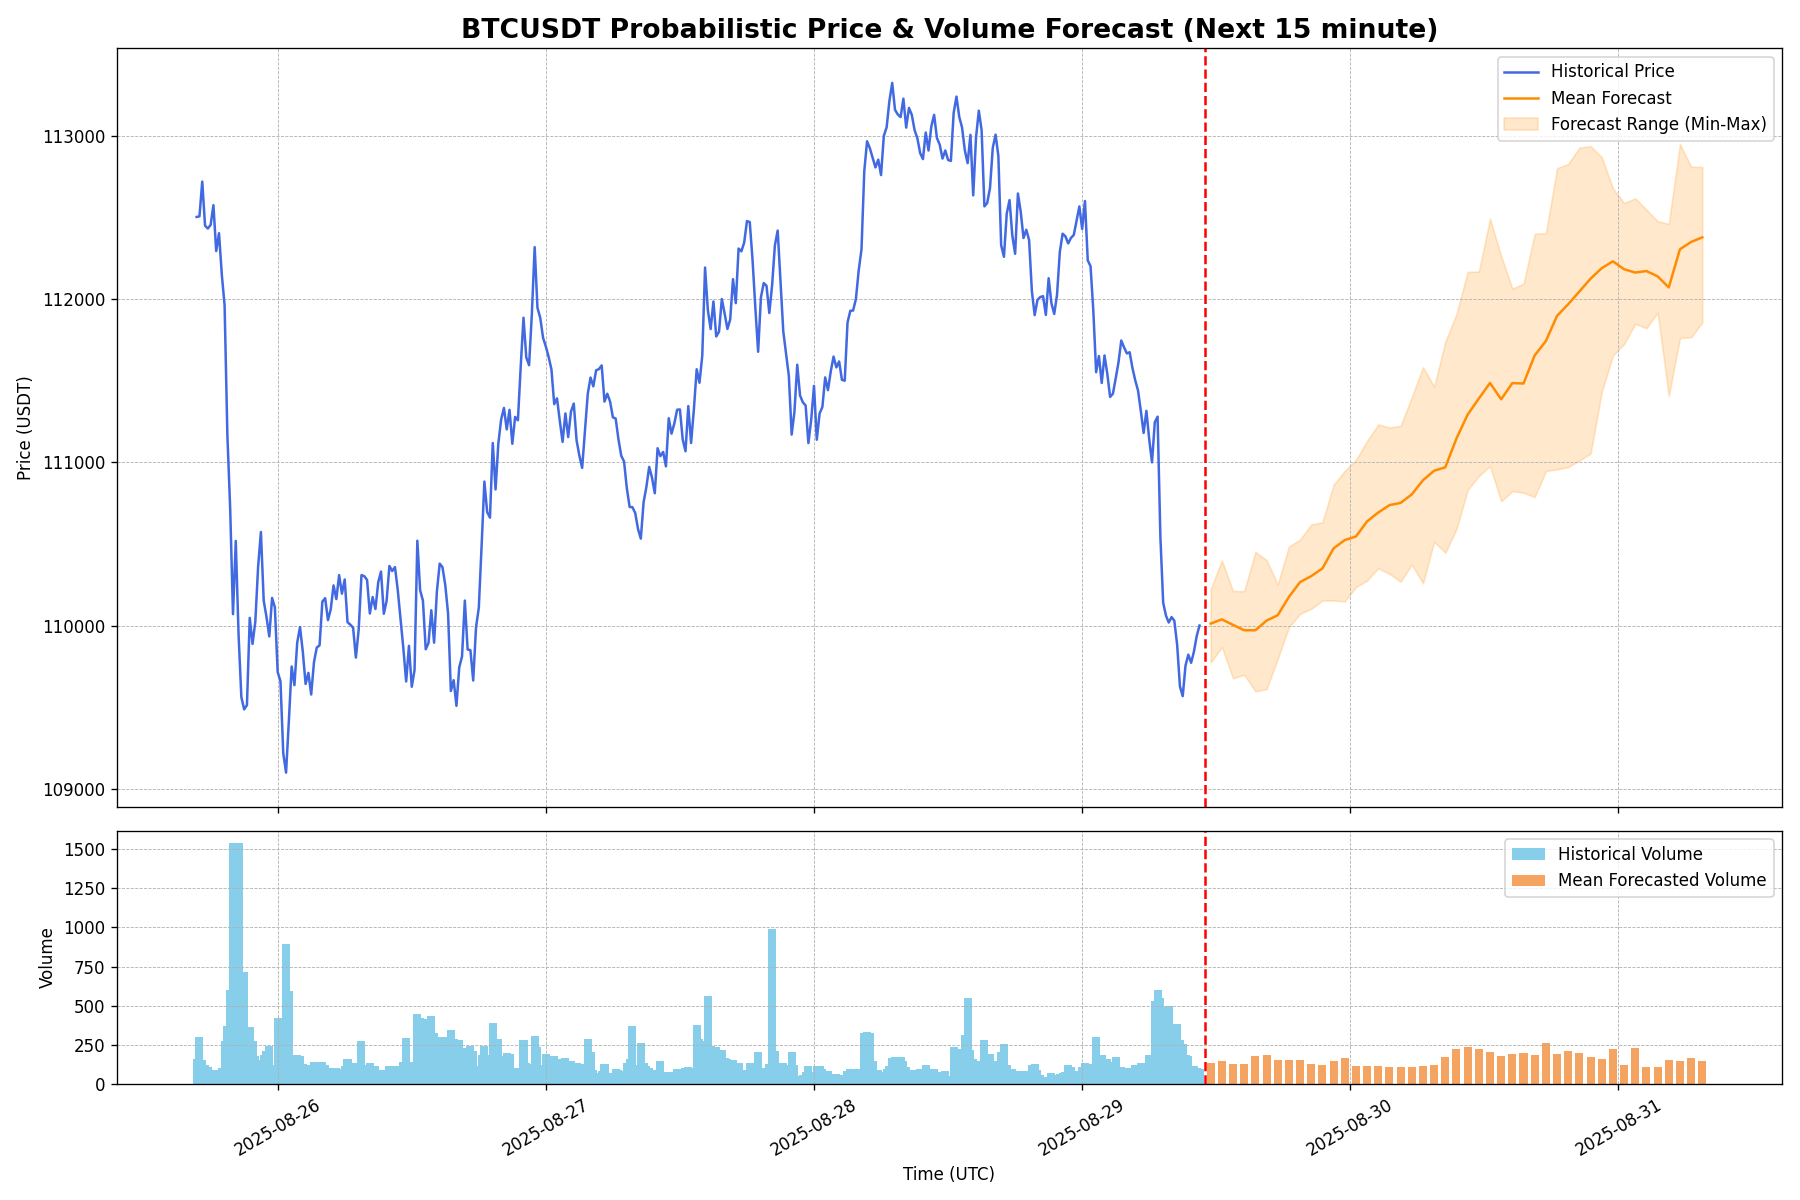
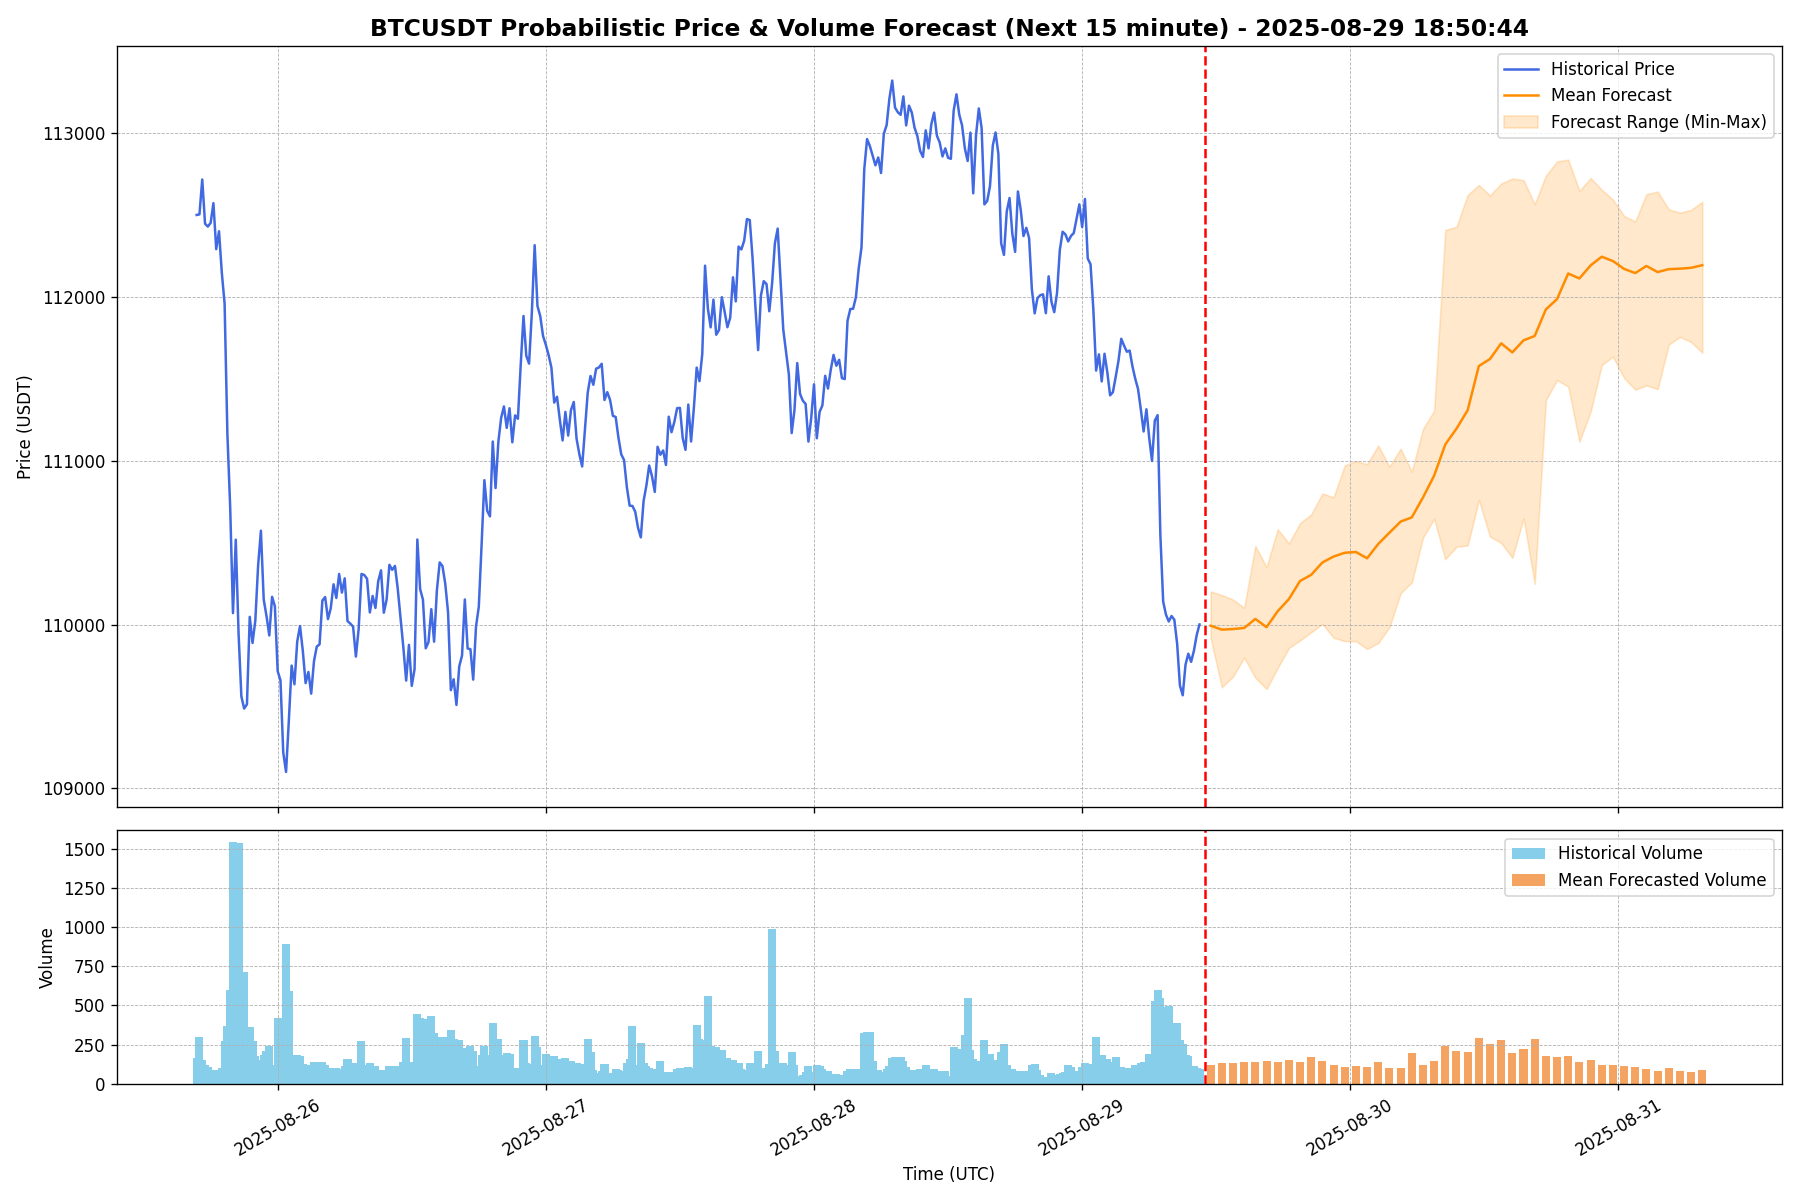
Auto-update forecast for 2025-08-29 10:50 UTC

diff --git a/btc_index.html b/btc_index.html
@@ -24,7 +24,7 @@
         <section id="live-dashboard">
             <h2>实时 BTC/USDT 预测仪表盘</h2>
             <div class="metadata">
-                <span>Last Updated: <strong id="update-time">2025-08-29 18:47:08</strong></span>
+                <span>Last Updated: <strong id="update-time">2025-08-29 18:50:45</strong></span>
                 <span>Data Source: Binance | Interval: 15minute </span>
             </div>
 
@@ -36,7 +36,7 @@
                 </div>
                 <div class="metric-card">
                     <h3>波动率放大（未来 24 小时）</h3>
-                    <p class="metric-value" id="vol-amp-prob">50.0%</p>
+                    <p class="metric-value" id="vol-amp-prob">40.0%</p>
                     <div class="metric-desc">未来 24 小时预测波动率超过近期历史波动率的概率。</div>
                 </div>
             </div>

diff --git a/update_predictions.py b/update_predictions.py
@@ -146,7 +146,9 @@ def create_plot(hist_df, close_preds_df, volume_preds_df):
     mean_preds = close_preds_df.mean(axis=1)
     ax1.plot(pred_time, mean_preds, color='darkorange', linestyle='-', label='Mean Forecast')
     ax1.fill_between(pred_time, close_preds_df.min(axis=1), close_preds_df.max(axis=1), color='darkorange', alpha=0.2, label='Forecast Range (Min-Max)')
-    ax1.set_title(f'{Config["SYMBOL"]} Probabilistic Price & Volume Forecast (Next 15 minute)', fontsize=16, weight='bold')
+    # 生成一个当前时间的字符串，然后拼接进title
+    ax1.set_title(f'{Config["SYMBOL"]} Probabilistic Price & Volume Forecast (Next 15 minute) - {datetime.now().strftime("%Y-%m-%d %H:%M:%S")}', fontsize=14, weight='bold')
+    #ax1.set_title(f'{Config["SYMBOL"]} Probabilistic Price & Volume Forecast (Next 15 minute)', fontsize=14, weight='bold')
     ax1.set_ylabel('Price (USDT)')
     ax1.legend()
     ax1.grid(True, which='both', linestyle='--', linewidth=0.5)
